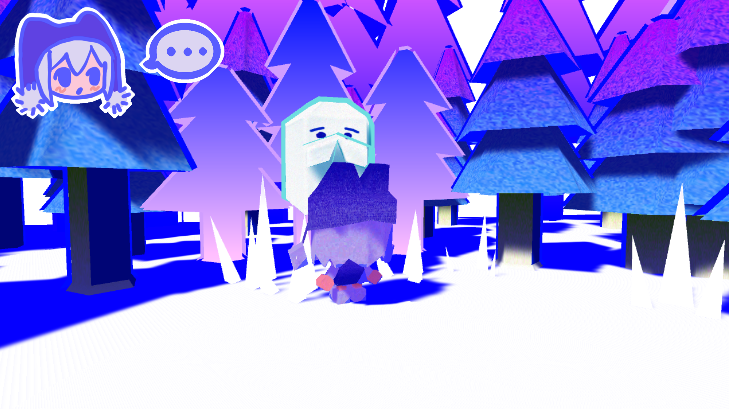
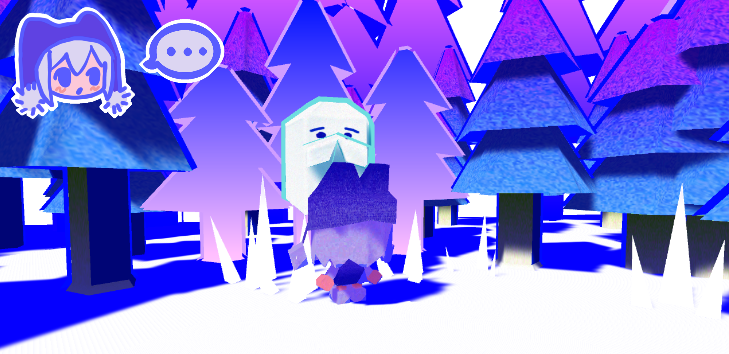
<feat>增加折叠标签与居中标签
折叠标签：
![显示的文字]+>内容<+
(可以不加![]，默认显示：展开折叠内容)
居中标签:
->内容<-

diff --git a/js/common.js b/js/common.js
@@ -833,11 +833,17 @@
   function inlineMarkdown(raw) {
     const extracted = extractInlineMathPlaceholders(raw);
     let rendered = extracted.text
+      .replace(/->([\s\S]*?)<-/g, '<div class="center-wrap">$1</div>')
+      .replace(/-&gt;([\s\S]*?)&lt;-/g, '<div class="center-wrap">$1</div>')
+      .replace(/(?:!\[([^\]]*)\])?\+\>([\s\S]*?)\<\+/g, (_m, summary, content) => {
+        const label = (summary || '').trim() || '展开折叠内容';
+        return '<details class="foldable"><summary>' + label + '</summary>' + content + '</details>';
+      })
       .replace(/!\[([^\]]*)\]\(([^)]+)\)/g, (_m, alt, src) => {
         const resolvedSrc = escapeHtml(resolveAssetUrl(src));
         const isVideo = /\.(mp4|webm|mov)$/i.test(src);
         if (isVideo) {
-          return `<video controls preload="metadata" class="video-embed"><source src="${resolvedSrc}" type="video/${src.endsWith('.webm') ? 'webm' : src.endsWith('.mov') ? 'quicktime' : 'mp4'}"></video>`;
+          return `<video controls preload="metadata" class="video-embed" src="${resolvedSrc}#t=0.001"></video>`;
         }
         return `<img src="${resolvedSrc}" alt="${alt}" loading="lazy" />`;
       })
@@ -1097,7 +1103,19 @@
 
   function markdownToHtml(markdownText) {
     const text = String(markdownText || "").replace(/\r\n/g, "\n");
-    const lines = text.split("\n");
+
+    // Pre-process foldable blocks: +>...<+ (multi-line)
+    const foldableBlocks = [];
+    const textWithoutFoldables = text.replace(/(?:\!\[([^\]]*)\])?\+\>([\s\S]*?)\<\+/g, function (_m, summary, content) {
+      var label = (summary || '').trim() || '展开折叠内容';
+      var innerHtml = markdownToHtml(content);
+      var html = '<details class="foldable"><summary>' + label + '</summary>' + innerHtml + '</details>';
+      var idx = foldableBlocks.length;
+      foldableBlocks.push(html);
+      return ' ' + idx + ' ';
+    });
+
+    const lines = textWithoutFoldables.split("\n");
     const out = [];
     let inCode = false;
     let codeLang = "plain";
@@ -1330,7 +1348,14 @@
       out.push(`<pre class="code-block" data-lang="${codeLang}"><code class="language-${codeLang}">${wrapCodeLines(highlighted)}</code></pre>`);
     }
     closeLists();
-    return out.join("\n");
+    var result = out.join("\n");
+    // Restore foldable blocks
+    if (foldableBlocks.length) {
+      result = result.replace(/ (\d+) /g, function (_m, idx) {
+        return foldableBlocks[parseInt(idx, 10)] || '';
+      });
+    }
+    return result;
   }
 
   function tagsFromText(value) {

diff --git a/.nino-preview.html b/.nino-preview.html
@@ -1209,6 +1209,23 @@ a {
   outline: none;
 }
 
+.markdown-content details.foldable {
+  margin: 0.8rem 0;
+  background: var(--surface-alt, rgba(128,128,128,0.06));
+  border-radius: 8px;
+  padding: 4px 12px;
+}
+.markdown-content details.foldable summary {
+  cursor: pointer;
+  padding: 6px 0;
+  font-weight: 500;
+  color: var(--text, inherit);
+  outline: none;
+}
+.markdown-content details.foldable summary::-webkit-details-marker {
+  color: var(--muted, #999);
+}
+
 .markdown-content table {
   border-collapse: collapse;
   width: 100%;
@@ -2009,6 +2026,7 @@ body.lightbox-open {
   aspect-ratio: 8 / 3;
   object-fit: cover;
   object-position: center;
+  background: none;
 }
 
 .blog-pagination {

diff --git a/styles.css b/styles.css
@@ -1199,6 +1199,29 @@ a {
   outline: none;
 }
 
+.markdown-content .center-wrap {
+  display: flex;
+  flex-direction: column;
+  align-items: center;
+}
+
+.markdown-content details.foldable {
+  margin: 0.8rem 0;
+  background: var(--surface-alt, rgba(128,128,128,0.06));
+  border-radius: 8px;
+  padding: 4px 12px;
+}
+.markdown-content details.foldable summary {
+  cursor: pointer;
+  padding: 6px 0;
+  font-weight: 500;
+  color: var(--text, inherit);
+  outline: none;
+}
+.markdown-content details.foldable summary::-webkit-details-marker {
+  color: var(--muted, #999);
+}
+
 .markdown-content table {
   border-collapse: collapse;
   width: 100%;

diff --git a/blog-post.html b/blog-post.html
@@ -49,7 +49,7 @@
 
     <script src="https://cdnjs.cloudflare.com/ajax/libs/highlight.js/11.9.0/highlight.min.js"></script>
     <script src="https://cdn.jsdelivr.net/gh/highlightjs/highlightjs-hlsl/dist/hlsl.min.js"></script>
-    <script src="./js/common.js"></script>
+    <script src="./js/common.js?v=2"></script>
     <script defer src="https://cdn.jsdelivr.net/npm/katex@0.16.11/dist/katex.min.js"></script>
     <script src="./js/blog-post.js"></script>
   </body>

diff --git a/about.html b/about.html
@@ -47,7 +47,7 @@
       <p data-site="footer-line2">All rights reserved.</p>
     </footer>
 
-    <script src="./js/common.js"></script>
+    <script src="./js/common.js?v=2"></script>
     <script defer src="https://cdn.jsdelivr.net/npm/katex@0.16.11/dist/katex.min.js"></script>
     <script src="./js/about.js"></script>
   </body>

diff --git a/blog.html b/blog.html
@@ -61,7 +61,7 @@
       <p data-site="footer-line2">All rights reserved.</p>
     </footer>
 
-    <script src="./js/common.js"></script>
+    <script src="./js/common.js?v=2"></script>
     <script src="./js/blog.js"></script>
   </body>
 </html>

diff --git a/game.html b/game.html
@@ -72,7 +72,7 @@
       <p data-site="footer-line2">All rights reserved.</p>
     </footer>
 
-    <script src="./js/common.js"></script>
+    <script src="./js/common.js?v=2"></script>
     <script src="./js/game.js"></script>
   </body>
 </html>

diff --git a/index.html b/index.html
@@ -52,7 +52,7 @@
       <p data-site="footer-line2">All rights reserved.</p>
     </footer>
 
-    <script src="./js/common.js"></script>
+    <script src="./js/common.js?v=2"></script>
     <script src="./js/home.js"></script>
   </body>
 </html>

diff --git a/art.html b/art.html
@@ -46,7 +46,7 @@
       <p data-site="footer-line2">All rights reserved.</p>
     </footer>
 
-    <script src="./js/common.js"></script>
+    <script src="./js/common.js?v=2"></script>
     <script src="./js/art.js"></script>
   </body>
 </html>

diff --git a/lab.html b/lab.html
@@ -37,7 +37,7 @@
       <p data-site="footer-line2">All rights reserved.</p>
     </footer>
 
-    <script src="./js/common.js"></script>
+    <script src="./js/common.js?v=2"></script>
     <script src="./js/lab.js"></script>
   </body>
 </html>

diff --git a/content/blog/Gw1.md b/content/blog/Gw1.md
@@ -6,33 +6,36 @@ tags: Blog,GameDev,Unity
 cover: ./assets/Blog/Gw1/00.png
 hidden: 0
 ---
-![00](./assets/Blog/Gw1/05.png)
+->![00](./assets/Blog/Gw1/05.png)<-
 # 1.LD58(2025.10)
++>
 ## 美术素材
 刚开始不知道要做什么样的游戏，但是很喜欢动森的建模，就参考了动森的风格。
 建了简单的低模，并且手绘了大概的模样，方便后面画贴图。然后因为是72h开发，时间很短，所以建筑什么的都用简单的几何体了，然后再写一点shader做效果就行了，比如基于屏幕空间的渐变，其实还想尝试那种风格化草地的，不过那时候只学了兰伯特这些简单的shader，然后就是看了一遍风格化草的教程，没做出来，遂放弃。
-![01](./assets/Blog/Gw1/01.png)
+->![01](./assets/Blog/Gw1/01.png)<-
 -------
 ## 玩法机制
 然后想到了可以尝试做3D平台跳跃游戏，感觉实现起来会比较容易，毕竟时间很短做不了太多内容。想了三种机制，不过最后面只做了一种并且游戏也没有什么玩法，大概就是行走模拟器吧。
 --------
-![02](./assets/Blog/Gw1/02.png)
+->![02](./assets/Blog/Gw1/02.png)<-
 - 1.可以控制物体大小，变大变小真的奇妙
 - 2.花的生长，因为当时在玩丝之歌，有一个地方就是打掉球，岩石还是什么会一直延伸并会随着时间掉落，需要玩家在规定时间内完成跳跳乐
 - 3.哭哭幽灵，哭泣导致水平面上升，或许可以通过某个障碍物
 -------
-![03](./assets/Blog/Gw1/03.png)
+->![03](./assets/Blog/Gw1/03.png)<-
 当时还想设计一个环形的地图，从起点开始一直往上走最后还能绕回起点，是一个单向的环形地图。最后没做出来hhh，因为不会设计关卡，并且机制都还没来得及做出来。
 多说一句，第一个关卡原先是设计一个巨大的环形图书馆，可以通过变大变小书架来爬到最顶层。最后做的是一个螺旋形的方块形成的路径，通过变大变小方块上到顶层。
+<+
 -------
 # 2.现在做的
++>
 ## 参考？
 好吧，我也没想好做些什么，之前看到Humblets的宣传视频，感觉画面很漂亮很舒服，想做类似风格的游戏，还有那个peak也很可爱，我看了那个GDC的演讲好像是某个游戏开发比赛拓展而来的游戏，我觉得好厉害，当时就已经做的很好了。
 ## 做了哪些？
 现在可以坐椅子了（太好了是3A大坐），还有可以骑神秘的双足生物以及飞鱼。
 呃....还有做了表情系统，现在Hya（游戏主角）会眨眼睛了，并且还做了其他的表情，大概就是一张表情集贴图，通过映射不同uv位置来切换表情。
 那个脸的平面需要绑定在头的骨骼上，我可以详细说一下，因为我最近才做的表情切换，所以可以说一下。从两个部分来说吧。
-![04](./assets/Blog/Gw1/04.png)
+->![04](./assets/Blog/Gw1/04.png)<-
 
 
 ### 一、blender修改建模
@@ -55,7 +58,8 @@ hidden: 0
 >1.导入
 >2.写shader
 > / 注意在unity和blender里UV数学原点都在左下角（所以UV的 (0,0) 位置是一样的），但图像数据的存储方向不同：在 blender 的uv编辑器里看图时，图片是从左下角开始显示的，和图集的实际像素排列一致。unity内部导入纹理时，图片在内存中是从上到下存储的。虽然 unity 也把uv(0,0) 定义在左下角，但因为图片上下颠倒了，所以你在unity里看到的图像原点实际在左上角,这个位置映射有点区别。/
-![06](./assets/Blog/Gw1/06.mp4)
-**OK，这就是最近的开发日志，我们下期再见（不是）**
+->![06](./assets/Blog/Gw1/06.mp4)<-
+<+
+**OK，这就是本期的开发日志，我们下期再见（不是）**
 
 
